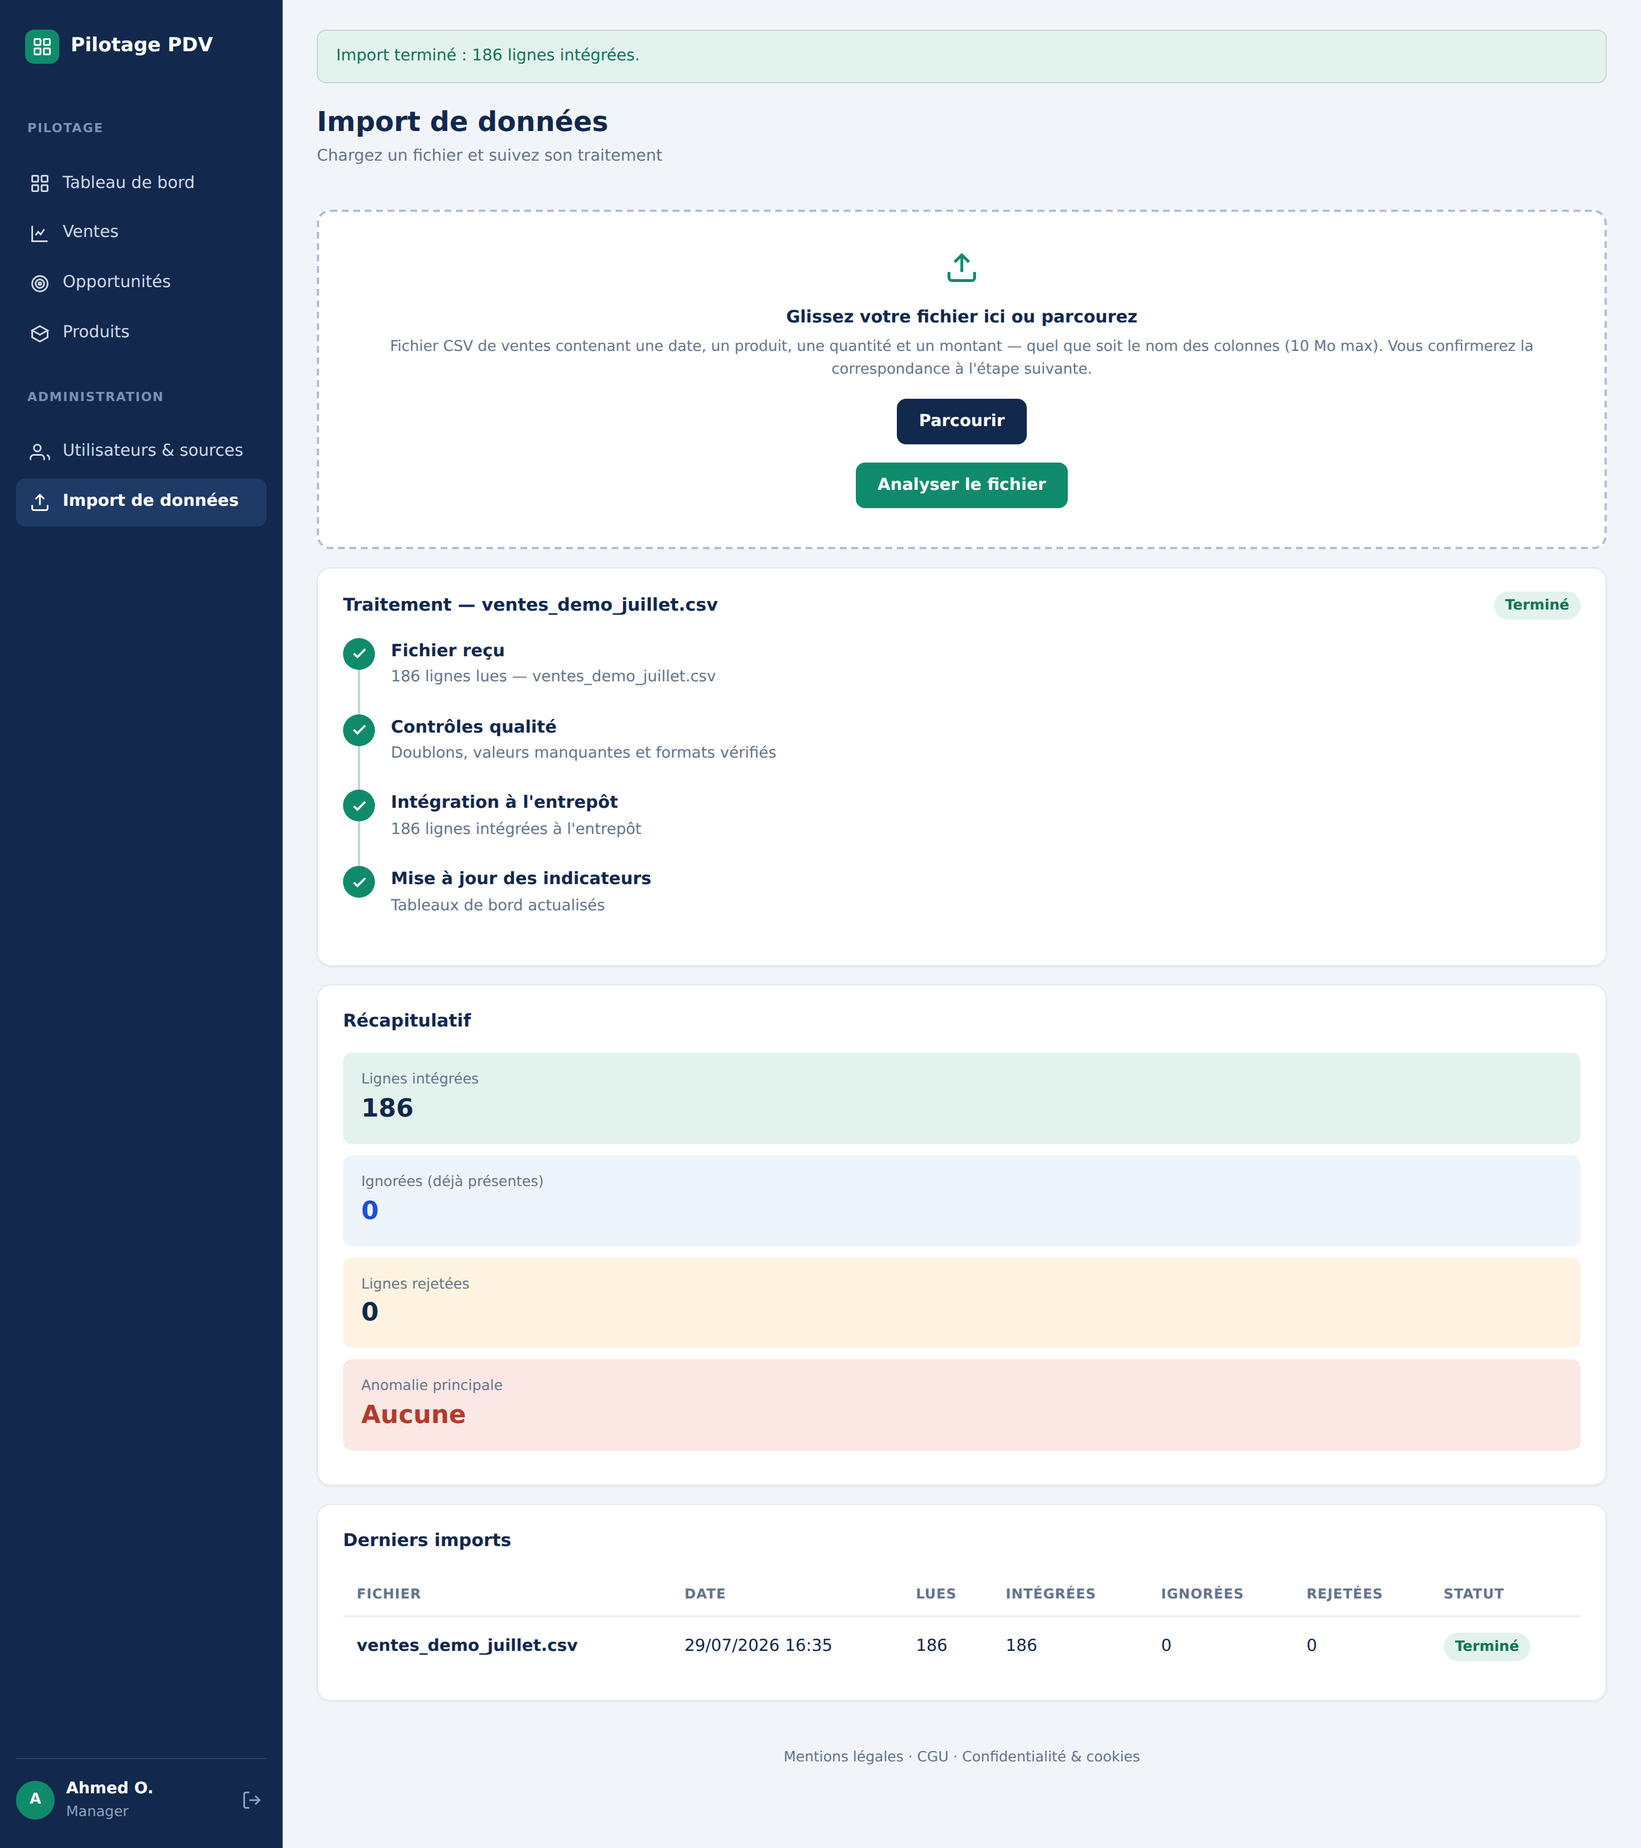
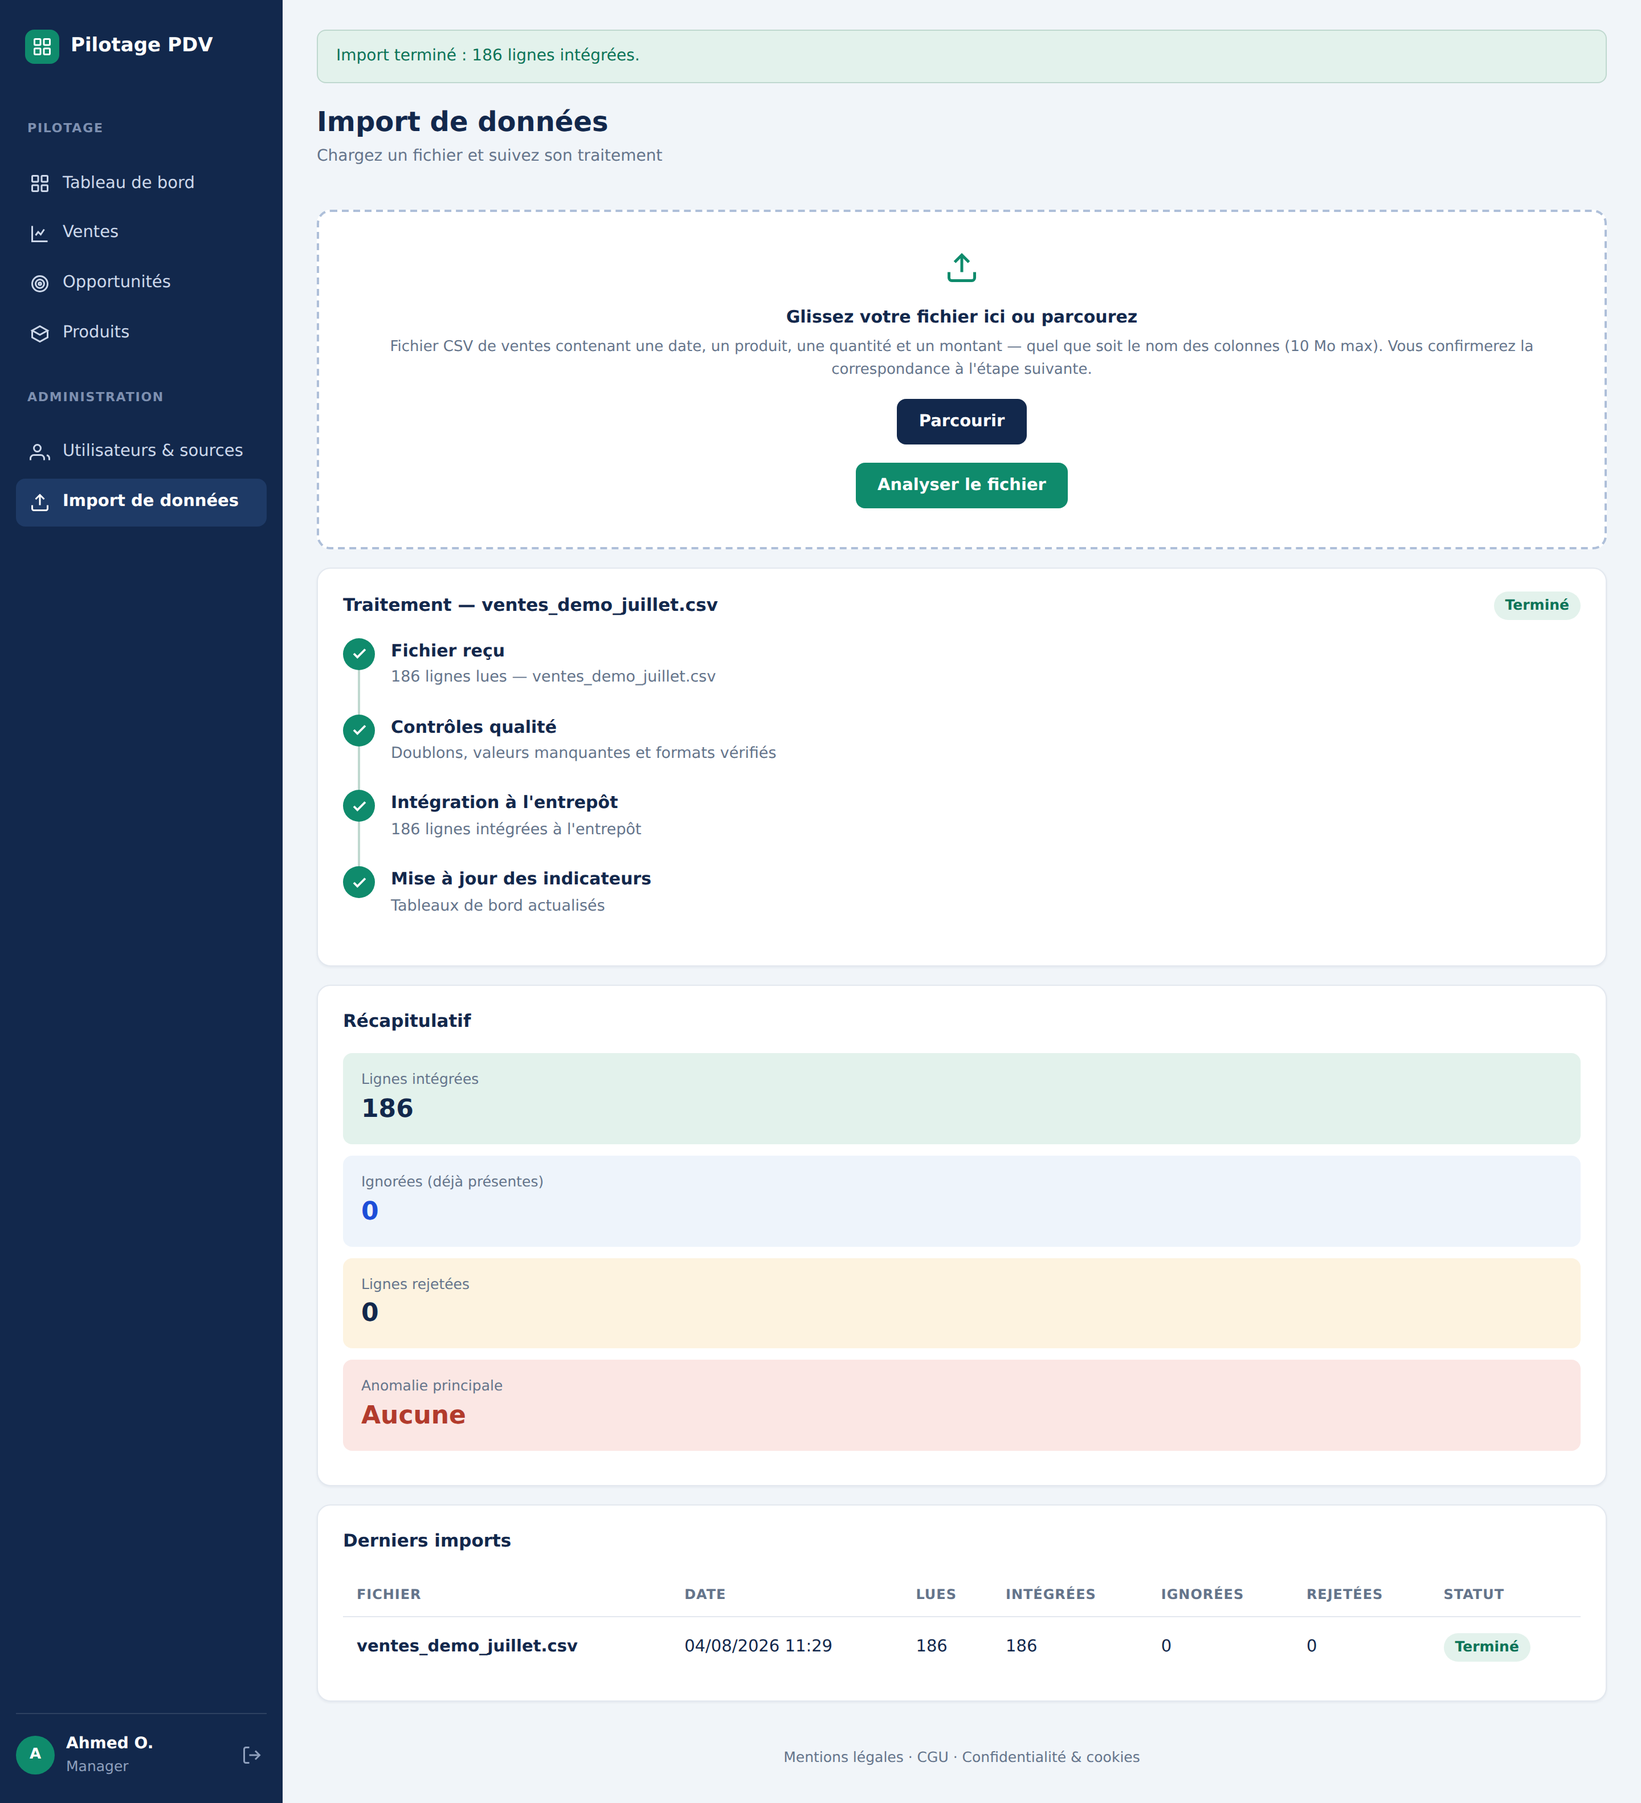
Jeu de demonstration exploitable et captures rejouees en une session
Captures. Les huit ecrans sont regeneres d'un seul tenant, dans un ordre
fixe (conforme -> degrade -> exotique -> reimport), sans reimport
intermediaire. Deux ecrans manquaient : le reimport (idempotence) et le
catalogue produits. docs/fiche_de_verite.md consigne les chiffres issus
de CETTE session : c'est desormais la seule source pour le rapport.

Jeu de demonstration. Il s'arrete la veille du jour d'execution : une
journee tronquee s'effondrait sur la courbe et faussait toute comparaison.
Deux anomalies y sont injectees volontairement (une journee a 45 % du
regime, un produit qui decroche), sans quoi aucune alerte ne se declenche
et l'ecran reste vide. Documente dans sample_data/README.md.

Produits decouverts a l'import. Ils etaient crees sans categorie et a
0,00 €, ce qui affichait un produit gratuit en tete du catalogue. Le prix
est desormais deduit de la ligne qui l'a fait apparaitre, et la categorie
« A qualifier » signale l'arbitrage restant.

72 tests, tous verts.

Claude-Session: https://claude.ai/code/session_016BxFQTXKicq3ZLk7gLL9HA

diff --git a/scripts/seed.py b/scripts/seed.py
@@ -111,15 +111,28 @@ def executer_seed():
 
     # 4. Commandes + lignes sur 75 jours (dont les 30 derniers pour le dashboard)
     prix_par_nom = {nom: prix for nom, _, prix, _ in PRODUITS}
-    aujourdhui = datetime.utcnow().replace(minute=0, second=0, microsecond=0)
-    debut = aujourdhui - timedelta(days=75)
+    # Le jeu s'arrête HIER, jamais sur la journée en cours : une journée tronquée
+    # s'effondrerait sur la courbe d'évolution et fausserait toute comparaison
+    # avec les journées entières qui la précèdent.
+    dernier_jour = (datetime.utcnow().replace(minute=0, second=0, microsecond=0)
+                    - timedelta(days=1))
+    debut = dernier_jour - timedelta(days=74)
+
+    # Anomalies volontaires, pour que les règles de la couche décision aient
+    # quelque chose à détecter. Un jeu parfaitement régulier ne déclencherait
+    # aucune alerte : l'écran serait vide et la fonctionnalité invisible.
+    # Ces anomalies sont documentées dans sample_data/README.md.
+    jour_creux = dernier_jour - timedelta(days=3)      # une journée à demi-régime
+    debut_decrochage = dernier_jour - timedelta(days=12)  # un produit qui décroche
 
     jour = debut
     nb_commandes = 0
-    while jour <= aujourdhui:
+    while jour <= dernier_jour:
         # Week-end un peu plus chargé.
         base = 48 if jour.weekday() >= 4 else 40
         commandes_du_jour = random.randint(base - 6, base + 6)
+        if jour.date() == jour_creux.date():
+            commandes_du_jour = int(commandes_du_jour * 0.45)
         for _ in range(commandes_du_jour):
             heure = _choisir_heure()
             minute = random.randint(0, 59)
@@ -132,6 +145,10 @@ def executer_seed():
             total = 0.0
             for _ in range(random.randint(1, 3)):  # 1 à 3 lignes par commande
                 nom = _choisir_produit()
+                # Décrochage volontaire : sur les douze derniers jours, la
+                # Végétarienne est massivement remplacée par une autre pizza.
+                if nom == "Végétarienne" and jour >= debut_decrochage and random.random() < 0.85:
+                    nom = "Margherita"
                 quantite = random.randint(1, 2)
                 montant = round(prix_par_nom[nom] * quantite, 2)
                 commande.lignes.append(LigneCommande(
@@ -153,7 +170,7 @@ def executer_seed():
         jour += timedelta(days=1)
 
     db.session.commit()
-    print(f"{nb_commandes} commandes générées sur 75 jours.")
+    print(f"{nb_commandes} commandes générées sur 75 jours (jusqu'à hier inclus).")
 
 
 if __name__ == "__main__":

diff --git a/app/services/pipeline.py b/app/services/pipeline.py
@@ -477,14 +477,26 @@ def _anomalie_principale(anomalies):
     return libelles[principale]
 
 
-def _resoudre_produits(noms):
+# Catégorie donnée à un produit découvert dans un fichier importé. Elle est
+# explicite plutôt que vide : le responsable voit qu'il reste un arbitrage à
+# faire, là où une case blanche passe inaperçue.
+CATEGORIE_A_QUALIFIER = "À qualifier"
+
+
+def _resoudre_produits(noms, prix_observes=None):
     """Récupère (ou crée) tous les produits en une seule passe.
 
     Résoudre les produits en amont évite une requête par ligne : sur un fichier
     de plusieurs milliers de lignes, la différence est décisive.
     Renvoie un dictionnaire {nom en minuscules: Produit}.
+
+    Un produit inconnu est créé à la volée : c'est la contrepartie d'un import
+    ouvert à n'importe quelle source. Son prix unitaire est déduit de la ligne
+    qui l'a fait apparaître (montant / quantité) plutôt que laissé à zéro, qui
+    afficherait « 0,00 € » au catalogue et laisserait croire à un produit gratuit.
     """
     cache = {}
+    prix_observes = prix_observes or {}
     voulus = {nom.lower(): nom for nom in noms}
     if not voulus:
         return cache
@@ -497,7 +509,11 @@ def _resoudre_produits(noms):
 
     manquants = [nom for cle, nom in voulus.items() if cle not in cache]
     for nom in manquants:
-        produit = Produit(nom=nom, categorie=None, prix_unitaire=0)
+        produit = Produit(
+            nom=nom,
+            categorie=CATEGORIE_A_QUALIFIER,
+            prix_unitaire=round(prix_observes.get(nom.lower(), 0), 2),
+        )
         db.session.add(produit)
         cache[nom.lower()] = produit
     if manquants:
@@ -534,7 +550,16 @@ def integrer(lignes_valides, point_de_vente_id):
         return 0, ignorees
 
     # 3. Résolution de tous les produits en amont (une seule requête).
-    cache_produits = _resoudre_produits({ligne["produit"] for _, ligne in nouvelles})
+    # Prix unitaire observé, pour les produits que le fichier ferait découvrir.
+    prix_observes = {}
+    for _, ligne in nouvelles:
+        quantite = ligne["quantite"] or 0
+        if quantite > 0:
+            prix_observes.setdefault(ligne["produit"].lower(), ligne["montant"] / quantite)
+
+    cache_produits = _resoudre_produits(
+        {ligne["produit"] for _, ligne in nouvelles}, prix_observes
+    )
 
     # 4. Construction des commandes, lignes et ventes.
     # On passe par les relations SQLAlchemy plutôt que par les identifiants :

diff --git a/tests/test_pipeline.py b/tests/test_pipeline.py
@@ -174,3 +174,26 @@ def test_une_valeur_inconnue_est_conservee_plutot_que_perdue():
     assert pipeline.normaliser_mode_paiement("Crypto") == "Crypto"
     assert pipeline.normaliser_mode_paiement("   ") is None
     assert pipeline.normaliser_mode_paiement(None) is None
+
+
+def test_un_produit_decouvert_a_l_import_a_un_prix_et_une_categorie(app, db):
+    """Un produit absent du catalogue est créé, mais jamais à 0,00 € sans mention.
+
+    Le prix est déduit de la ligne qui l'a fait apparaître, et la catégorie
+    indique explicitement qu'un arbitrage reste à faire.
+    """
+    from app.models import Produit, Utilisateur, PointDeVente
+
+    chemin = _ecrire_csv(
+        "date,produit,quantite,montant\n"
+        "2026-06-01 12:00,Salade Grecque,2,17.00\n"
+    )
+    utilisateur = Utilisateur.query.first()
+    pdv = PointDeVente.query.first()
+    pipeline.traiter_fichier(chemin, "decouverte.csv", utilisateur,
+                             pdv.id_point_de_vente)
+
+    produit = Produit.query.filter_by(nom="Salade Grecque").first()
+    assert produit is not None
+    assert produit.categorie == pipeline.CATEGORIE_A_QUALIFIER
+    assert float(produit.prix_unitaire) == 8.50, "17,00 € pour 2 unités"

diff --git a/docs/fiche_de_verite.md b/docs/fiche_de_verite.md
@@ -1,0 +1,168 @@
+# Fiche de vérité — session de capture du 4 août 2026
+
+> **Ce document remplace tous les chiffres qui circulaient auparavant.** Il est
+> établi *depuis la session qui a produit les captures de `docs/captures/`*, et
+> non depuis le code ni de mémoire. Toute valeur écrite dans le rapport ou la
+> présentation doit venir d'ici.
+>
+> **Méthode suivie**, dans cet ordre exact, sans rien réimporter entre deux :
+> réinitialisation de la base → import conforme → import dégradé → colonnes
+> exotiques → réimport du fichier conforme → capture des huit écrans.
+
+---
+
+## Les huit captures
+
+| Fichier | Écran |
+|---|---|
+| `01_import_fichier_conforme.png` | Import d'un fichier conforme |
+| `02_import_avec_anomalies.png` | Import d'un fichier dégradé, détail des rejets |
+| `03_correspondance_colonnes.png` | Correspondance de colonnes (source exotique) |
+| `04_reimport_idempotence.png` | **Réimport — idempotence** *(nouvelle)* |
+| `05_tableau_de_bord_alertes.png` | Tableau de bord + bandeau d'alertes |
+| `06_analyse_prevision_paiements.png` | Analyse des ventes, prévision, modes de paiement |
+| `07_opportunites.png` | Opportunités promotionnelles |
+| `08_produits.png` | Catalogue produits *(nouvelle)* |
+
+---
+
+## Le pipeline — les quatre imports de la session
+
+Ces quatre lignes apparaissent **ensemble** dans le tableau « Derniers imports »
+de la capture 04. C'est la meilleure preuve du dossier : toute la démonstration
+du pipeline tient sur une seule image.
+
+| Fichier | Lues | Intégrées | Ignorées | Rejetées |
+|---|---:|---:|---:|---:|
+| `ventes_demo_juillet.csv` | 186 | **186** | 0 | 0 |
+| `ventes_sale.csv` | 25 | **14** | 0 | **11** |
+| `ventes_colonnes_exotiques.csv` | 20 | **20** | 0 | 0 |
+| `ventes_demo_juillet.csv` *(réimport)* | 186 | **0** | **186** | 0 |
+
+Détail des 11 rejets : **3 valeurs manquantes · 1 doublon · 3 dates · 2 quantités · 2 montants**.
+
+---
+
+## Volumes en base après la session
+
+| | |
+|---|---:|
+| Commandes | 3 357 |
+| Lignes de commande | 6 663 |
+| Ventes (table `vente`, source Pulse) | 3 357 |
+| Produits au catalogue | 9 |
+
+Le jeu de démonstration couvre **75 jours, jusqu'à la veille incluse** — jamais
+la journée en cours, qui serait tronquée.
+
+---
+
+## Tableau de bord — 30 derniers jours
+
+| Indicateur | Valeur | Variation |
+|---|---:|---:|
+| Chiffre d'affaires | **44 812,10 €** | −1 % |
+| Commandes | **1 371** | +3 % |
+| Panier moyen | **32,69 €** | −4 % |
+| Produits vendus | **3 981** | stable |
+
+## Alertes affichées
+
+| Niveau | Alerte |
+|---|---|
+| **Critique** | Chute de CA le 31/07 — 858 €, soit −48 % sous la moyenne des vendredis récents (~1 652 €) |
+| Attention | Produit en décrochage : Végétarienne — 211 ventes contre 333 sur la période précédente (−37 %) |
+| Attention | Chute de CA le 02/08 — 1 386 €, soit −28 % sous la moyenne des dimanches récents (~1 914 €) |
+
+> ⚠ **Ces valeurs se déplacent à chaque réinitialisation** : le jeu est calé sur
+> la date d'exécution. Dans la présentation, cite la **règle** (« un jour à plus
+> de 40 % sous la moyenne de son jour de semaine »), pas le chiffre. Les deux
+> anomalies qui déclenchent ces alertes sont **injectées volontairement** dans le
+> jeu de démonstration, et documentées dans `sample_data/README.md`.
+
+---
+
+## Opportunités — 90 derniers jours
+
+**Moyenne horaire : 9 438,29 € · seuil à 60 % : 5 662,97 €**
+**6 créneaux sur 12 sont sous le seuil** — tous signalés en rouge sur le
+graphique ; le détail retient les trois plus pénalisants.
+
+| Créneau | CA | Écart | Manque à gagner |
+|---|---:|---:|---:|
+| 16 h – 17 h | 2 675,50 € | **−72 %** | 6 762,79 € |
+| 15 h – 16 h | 2 820,30 € | −70 % | 6 617,99 € |
+| 11 h – 12 h | 4 204,80 € | −55 % | 5 233,49 € |
+
+Produits en retrait (part moyenne par produit : 11,1 %) :
+**Salade César 0,1 % · Tiramisu 3,5 % · Boisson 33 cl 4,0 %**
+
+Associations — panier moyen global **33,74 €** :
+
+| Association | Commandes | Panier moyen | Écart |
+|---|---:|---:|---:|
+| Boisson 33 cl + Reine | 297 | 36,94 € | +3,20 € |
+| Boisson 33 cl + Pepperoni | 253 | 39,95 € | +6,21 € |
+| **Pepperoni + Reine** | 239 | 53,54 € | **+19,80 €** |
+
+> **Le chiffre à mettre en avant reste l'écart de panier de Pepperoni + Reine.**
+> Sa valeur exacte change à chaque réinitialisation ; sa formulation robuste est
+> *« une association qui fait monter le ticket de près de vingt euros »*.
+
+---
+
+## Modes de paiement
+
+| Mode | Encaissements |
+|---|---:|
+| Carte | 2 046 |
+| Espèces | 951 |
+| Ticket resto | 347 |
+
+**Trois catégories, pas quatre.** Les fichiers importés écrivent « CB » là où le
+jeu de démonstration écrit « Carte » : la normalisation des *valeurs*
+(`normaliser_mode_paiement`) les ramène à un libellé unique. Sans elle, le même
+moyen de paiement apparaîtrait deux fois dans le graphique.
+
+*(13 encaissements sont sans mode de paiement : ils proviennent de
+`ventes_sale.csv`, qui ne porte pas cette colonne. C'est le comportement attendu
+d'un champ facultatif.)*
+
+---
+
+## Catalogue produits
+
+| Produit | Catégorie | Prix |
+|---|---|---:|
+| Boisson 33cl | Boisson | 2,50 € |
+| Tiramisu | Dessert | 4,90 € |
+| 4 Fromages · Calzone · Margherita · Pepperoni · Reine · Végétarienne | Pizza | 15,90 / 14,50 / 11,90 / 14,90 / 13,90 / 13,50 € |
+| **Salade César** | **À qualifier** | **8,90 €** |
+
+Salade César n'existait pas au catalogue : elle a été **découverte à l'import**
+du fichier aux colonnes exotiques. Son prix est déduit de la ligne qui l'a fait
+apparaître (montant ÷ quantité) et sa catégorie signale explicitement qu'un
+arbitrage humain reste à faire.
+
+> **C'est un bon point à faire remarquer au jury** plutôt qu'à masquer : il
+> montre qu'un import ouvert à n'importe quelle source crée des produits, et que
+> l'application le signale au lieu de le dissimuler.
+
+---
+
+## Ce qui ne bouge jamais
+
+Ces éléments sont structurels : ils ne dépendent d'aucune session.
+
+- **8 tables** : `point_de_vente` · `utilisateur` · `produit` · `commande` ·
+  `ligne_commande` · `vente` · `import_fichier` · `import_temporaire`
+  *(les sept premières sont métier, la dernière est technique)*
+- **6 écrans** : tableau de bord · analyse des ventes · produits · opportunités ·
+  administration · import
+- **4 rôles** : manager · assistant manager · premier équipier · équipier
+- **Le CA est calculé exclusivement depuis `ligne_commande`.** La table `vente`
+  ne participe jamais à ce calcul.
+- **72 tests** automatisés (pytest).
+- Point de vente : **Chatou (78)**.
+- Aucun apprentissage automatique : toutes les règles sont déterministes et
+  énonçables en une phrase.

diff --git a/sample_data/README.md b/sample_data/README.md
@@ -49,3 +49,24 @@ Résultat de l'import :
 > qu'une. C'est une limite assumée de la règle actuelle : elle protège contre la
 > duplication accidentelle, mais ne sait pas distinguer une répétition légitime
 > au sein d'un même ticket.
+
+---
+
+## Anomalies volontaires du jeu de démonstration
+
+Le jeu généré par `scripts/seed.py` n'est pas parfaitement régulier : deux
+anomalies y sont **injectées délibérément**, afin que les règles de la couche
+décision aient quelque chose à détecter. Un jeu lisse ne déclencherait aucune
+alerte, et la fonctionnalité serait invisible à la démonstration.
+
+| Anomalie | Où | Ce qu'elle déclenche |
+|---|---|---|
+| Journée à 45 % du régime normal | 3 jours avant le dernier jour | alerte **Chute de CA** (niveau critique) |
+| Végétarienne remplacée à 85 % par Margherita | 12 derniers jours | alerte **Produit en décrochage** |
+
+Le jeu s'arrête **la veille** du jour d'exécution, jamais sur la journée en
+cours : une journée tronquée s'effondrerait sur la courbe d'évolution et
+fausserait toute comparaison avec les journées entières qui la précèdent.
+
+La graine aléatoire est fixe (`random.seed(42)`) : deux exécutions le même jour
+produisent exactement le même jeu.
